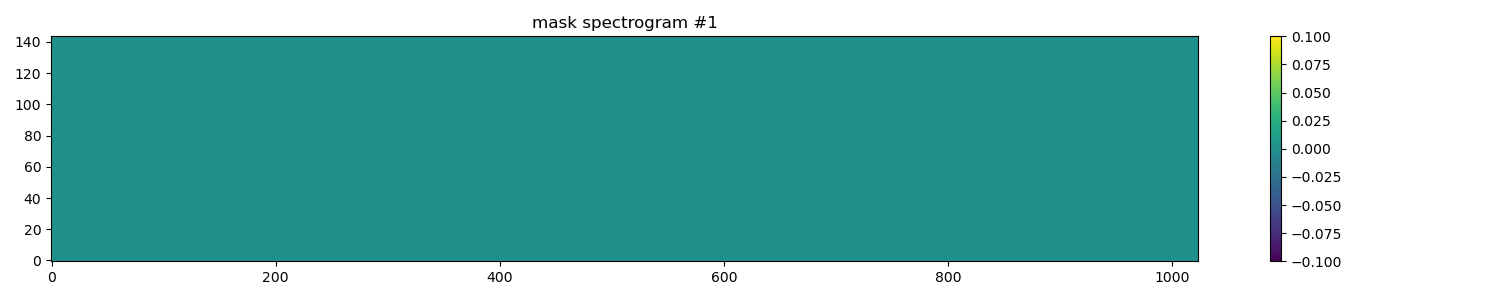
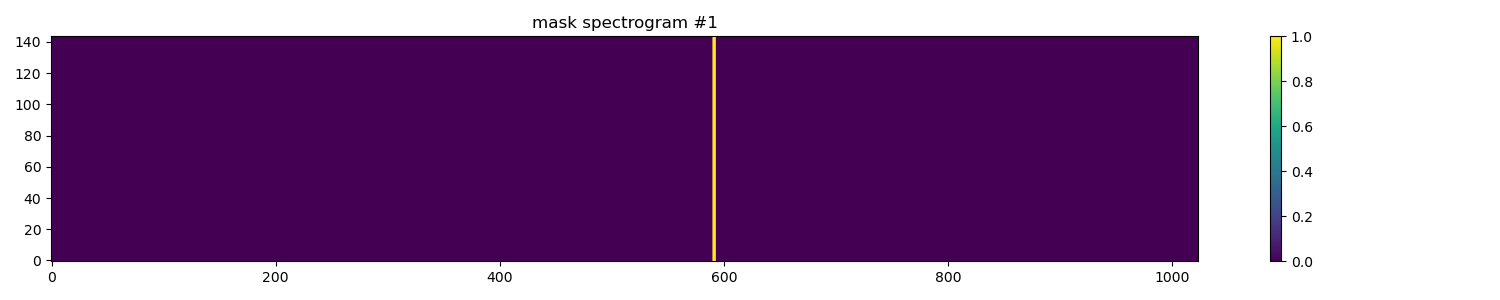
New train strategy

diff --git a/main.py b/main.py
@@ -68,15 +68,15 @@ def main():
     drift_max = 5.0
     drift_min_abs = df // (tchans * dt)
     train_dataset = DynamicSpectrumDataset(tchans=tchans, fchans=fchans, df=df, dt=dt, fch1=None, ascending=False,
-                                           drift_min=drift_min, drift_max=drift_max, drift_min_abs=0.8,
+                                           drift_min=drift_min, drift_max=drift_max, drift_min_abs=0.5,
                                            snr_min=20.0, snr_max=30.0, width_min=10, width_max=30, num_signals=(0, 1),
-                                           noise_std_min=0.025, noise_std_max=0.05,
+                                           noise_std_min=0.025, noise_std_max=0.05, ues_fil=False,
                                            background_fil="../data/BLIS692NS/BLIS692NS_data/spliced_blc00010203040506o7o0111213141516o7o0212223242526o7o031323334353637_guppi_58060_26569_HIP17147_0021.gpuspec.0002.fil")
 
     valid_dataset = DynamicSpectrumDataset(tchans=tchans, fchans=fchans, df=df, dt=dt, fch1=None, ascending=False,
-                                           drift_min=drift_min, drift_max=drift_max, drift_min_abs=0.8,
+                                           drift_min=drift_min, drift_max=drift_max, drift_min_abs=0.5,
                                            snr_min=20.0, snr_max=30.0, width_min=10, width_max=30, num_signals=(0, 1),
-                                           noise_std_min=0.025, noise_std_max=0.05,
+                                           noise_std_min=0.025, noise_std_max=0.05, ues_fil=False,
                                            background_fil="../data/BLIS692NS/BLIS692NS_data/spliced_blc00010203040506o7o0111213141516o7o0212223242526o7o031323334353637_guppi_58060_26569_HIP17147_0021.gpuspec.0002.fil")
 
     # Create data loaders
@@ -105,7 +105,7 @@ def main():
     valid_steps = 30
 
     # Loss function and optimizer
-    criterion = CombinedLoss(device, alpha=0.8, beta=0.2, gamma=0.1, delta=0.1, momentum=0.99, fixed_g_d=True)
+    criterion = CombinedLoss(device, alpha=1.0, beta=0., gamma=0., delta=0., momentum=0.99, fixed_g_d=True)
     optimizer = optim.Adam(list(model.parameters()) + list(criterion.parameters()), lr=5e-4, weight_decay=1e-7)
     # scheduler = optim.lr_scheduler.ReduceLROnPlateau(
     #     optimizer,

diff --git a/gen/SETIdataset.py b/gen/SETIdataset.py
@@ -10,13 +10,9 @@ from gen.SETIgen import sim_dynamic_spec_seti
 
 class DynamicSpectrumDataset(Dataset):
     def __init__(self,
-                 tchans=224, fchans=224, df=1.0, dt=1.0, fch1=None, ascending=False,
-                 drift_min=-2.0, drift_max=2.0, drift_min_abs=0.2,
-                 snr_min=10.0, snr_max=30.0,
-                 width_min=1.0, width_max=5.0,
-                 num_signals=(0, 1),
-                 noise_std_min=0.05, noise_std_max=0.2,
-                 background_fil=None):
+                 tchans=224, fchans=224, df=1.0, dt=1.0, fch1=None, ascending=False, drift_min=-2.0, drift_max=2.0,
+                 drift_min_abs=0.2, snr_min=10.0, snr_max=30.0, width_min=1.0, width_max=5.0, num_signals=(0, 1),
+                 noise_std_min=0.05, noise_std_max=0.2, use_fil=False, background_fil=None):
         """
         动态生成式数据集构造函数，参数动态适应频率和时间通道数。
 
@@ -46,7 +42,7 @@ class DynamicSpectrumDataset(Dataset):
         self.num_signals = num_signals
         self.noise_std_min = noise_std_min
         self.noise_std_max = noise_std_max
-        self.background_fil = background_fil
+        self.background_fil = None if not use_fil else background_fil
 
         # 动态计算总带宽和总时间
         self.total_bandwidth = self.fchans * self.df

diff --git a/pred.py b/pred.py
@@ -55,11 +55,10 @@ def main(mode=None, ui=False, obs=False, *args):
         drift_max = 4.0
         drift_min_abs = df // (tchans * dt)
         pred_dataset = DynamicSpectrumDataset(tchans=tchans, fchans=fchans, df=df, dt=dt, fch1=None, ascending=False,
-                                              drift_min=drift_min, drift_max=drift_max, drift_min_abs=0.3,
+                                              drift_min=drift_min, drift_max=drift_max, drift_min_abs=0.05,
                                               snr_min=20.0, snr_max=30.0, width_min=10, width_max=30,
-                                              num_signals=(0, 1),
-                                              noise_std_min=0.025, noise_std_max=0.05,
-                                              background_fil=obs_file_path)
+                                              num_signals=(0, 1), noise_std_min=0.025, noise_std_max=0.05,
+                                              use_fil=False, background_fil=obs_file_path)
         pred_dataloader = DataLoader(pred_dataset, batch_size=1, num_workers=1, pin_memory=True)
 
     def load_model(model_class, checkpoint_path, **kwargs):

diff --git a/gen/SETIgen.py b/gen/SETIgen.py
@@ -127,7 +127,7 @@ def sim_dynamic_spec_seti(fchans, tchans, df, dt, fch1=None, ascending=False, si
         fch1 = fch1 * u.Hz
 
     use_fil = False
-    if background_fil and np.random.random() < 0.5:
+    if background_fil and np.random.random() < 0.0:
         waterfall_itr = stg.split_waterfall_generator(background_fil, fchans, tchans=tchans, f_shift=None)
         waterfall = next(waterfall_itr)
         # 创建 Frame (使用背景噪声)
